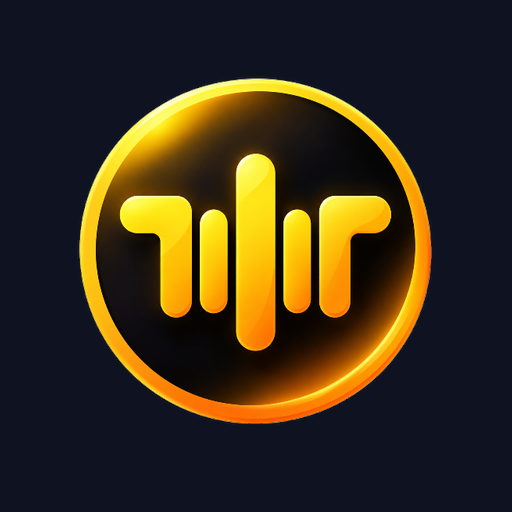
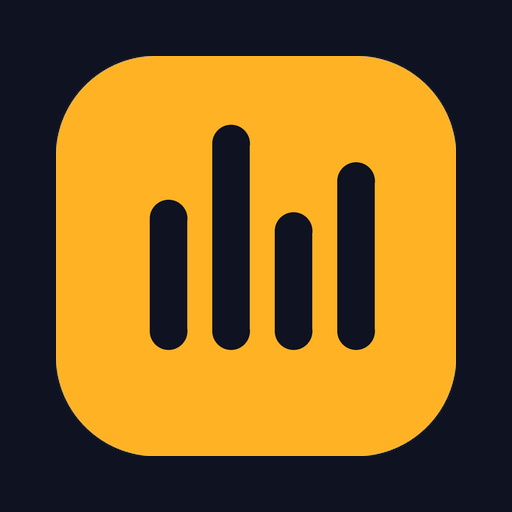
v0.1.0: robust AngularJS form validation, Terms of Use modal, and unified branding

diff --git a/frontend/public/index.html b/frontend/public/index.html
@@ -4,9 +4,9 @@
   <meta charset="utf-8">
   <meta name="viewport" content="width=device-width, initial-scale=1, viewport-fit=cover">
   <title ng-bind="title">TopTunes</title>
-  <link rel="icon" type="image/svg+xml" href="favicon.svg">
+  <link rel="icon" type="image/x-icon" href="favicon.ico">
   <link rel="icon" type="image/png" sizes="96x96" href="favicon-96x96.png">
-  <link rel="icon" href="favicon.ico">
+  <link rel="icon" type="image/svg+xml" href="favicon.svg">
   <link rel="apple-touch-icon" sizes="180x180" href="apple-touch-icon.png">
   <link rel="manifest" href="site.webmanifest">
   <meta name="theme-color" content="#ffb224">
@@ -18,6 +18,10 @@
 
 <!-- Icon sprite -->
 <svg width="0" height="0" style="position:absolute" aria-hidden="true">
+  <symbol id="i-logo" viewBox="0 0 32 32">
+    <rect width="32" height="32" rx="8" fill="#ffb224"/>
+    <path d="M9 22V10m5 12V6m5 16V13m5 9V9" stroke="#0f1220" stroke-width="3" stroke-linecap="round" fill="none"/>
+  </symbol>
   <symbol id="i-play" viewBox="0 0 24 24"><path d="M7 4.5v15l13-7.5z"/></symbol>
   <symbol id="i-pause" viewBox="0 0 24 24"><path d="M7 5h3.5v14H7zM13.5 5H17v14h-3.5z"/></symbol>
   <symbol id="i-next" viewBox="0 0 24 24"><path d="M6 5l10 7-10 7zM18 5v14"/></symbol>
@@ -48,7 +52,7 @@
 <div class="loadbar" ng-class="{on: app.loading}" role="progressbar" aria-label="Loading content" ng-attr-aria-valuenow="{{app.loading ? 100 : 0}}"></div>
 
 <header class="topbar">
-  <a class="brand" href="#/home"><svg class="mark" viewBox="0 0 32 32" aria-hidden="true"><rect width="32" height="32" rx="8"/><path d="M9 22V10m5 12V6m5 16V13m5 9V9"/></svg>TopTunes</a>
+  <a class="brand" href="#/home"><svg class="mark" aria-hidden="true"><use href="#i-logo"/></svg>TopTunes</a>
   <a class="btn small" href="#/login" ng-if="!app.session.user">Log in</a>
   <a class="avatar" href="#/profile" ng-if="app.session.user" aria-label="Your profile">{{app.session.user.name | initials}}</a>
 </header>
@@ -56,7 +60,7 @@
 <div class="shell">
   <aside class="side" role="navigation" aria-label="Sidebar navigation">
     <a class="brand" href="#/home" aria-label="TopTunes Home">
-      <svg class="mark" viewBox="0 0 32 32" aria-hidden="true"><rect width="32" height="32" rx="8"/><path d="M9 22V10m5 12V6m5 16V13m5 9V9"/></svg>
+      <svg class="mark" aria-hidden="true"><use href="#i-logo"/></svg>
       <span>TopTunes</span>
     </a>
 
@@ -741,7 +745,7 @@
   <section class="page auth">
     <div class="auth-wrap">
       <a class="brand auth-brand" href="#/home" aria-label="TopTunes Home">
-        <svg class="mark" viewBox="0 0 32 32"><rect width="32" height="32" rx="8"/><path d="M10 21V11l13-2v10M10 17l13-2"/></svg>
+        <svg class="mark" aria-hidden="true"><use href="#i-logo"/></svg>
         <span>TopTunes</span>
       </a>
 
@@ -756,15 +760,15 @@
         <form name="f" novalidate ng-submit="vm.submit(f)">
           <div class="field">
             <label for="l-email">Email address</label>
-            <input id="l-email" type="email" inputmode="email" name="email" ng-model="vm.user.email" required autocomplete="email" aria-describedby="l-email-err" ng-disabled="vm.busy">
+            <input id="l-email" type="email" inputmode="email" name="email" ng-model="vm.user.email" required ng-pattern="vm.emailRule" autocomplete="email" aria-describedby="l-email-err" ng-disabled="vm.busy" placeholder="you@example.com">
             <p id="l-email-err" class="field-error" role="alert" ng-if="(f.email.$touched || f.$submitted) && f.email.$error.required">Enter your email address.</p>
-            <p id="l-email-err" class="field-error" role="alert" ng-if="(f.email.$touched || f.$submitted) && f.email.$error.email">That does not look like a valid email address.</p>
+            <p id="l-email-err" class="field-error" role="alert" ng-if="(f.email.$touched || f.$submitted) && (f.email.$error.email || f.email.$error.pattern) && !f.email.$error.required">Enter a valid email address.</p>
           </div>
 
           <div class="field">
             <label for="l-pass">Password</label>
             <div class="input-pass-wrap">
-              <input id="l-pass" type="{{showPass ? 'text' : 'password'}}" name="password" ng-model="vm.user.password" required autocomplete="current-password" aria-describedby="l-pass-err" ng-disabled="vm.busy">
+              <input id="l-pass" type="{{showPass ? 'text' : 'password'}}" name="password" ng-model="vm.user.password" required autocomplete="current-password" aria-describedby="l-pass-err" ng-disabled="vm.busy" placeholder="Enter password">
               <button type="button" class="pass-toggle-btn" ng-click="showPass = !showPass" aria-label="{{showPass ? 'Hide password' : 'Show password'}}">
                 <span ng-if="!showPass">Show</span>
                 <span ng-if="showPass">Hide</span>
@@ -773,7 +777,7 @@
             <p id="l-pass-err" class="field-error" role="alert" ng-if="(f.password.$touched || f.$submitted) && f.password.$error.required">Enter your password.</p>
           </div>
 
-          <button class="btn primary wide auth-submit" type="submit" ng-disabled="vm.busy">
+          <button class="btn primary wide auth-submit" type="submit" ng-disabled="vm.busy || f.$invalid">
             {{vm.busy ? 'Signing in...' : 'Sign in'}}
           </button>
         </form>
@@ -791,7 +795,7 @@
   <section class="page auth">
     <div class="auth-wrap">
       <a class="brand auth-brand" href="#/home" aria-label="TopTunes Home">
-        <svg class="mark" viewBox="0 0 32 32"><rect width="32" height="32" rx="8"/><path d="M10 21V11l13-2v10M10 17l13-2"/></svg>
+        <svg class="mark" aria-hidden="true"><use href="#i-logo"/></svg>
         <span>TopTunes</span>
       </a>
 
@@ -806,22 +810,23 @@
         <form name="f" novalidate ng-submit="vm.submit(f)">
           <div class="field">
             <label for="r-name">Full name</label>
-            <input id="r-name" name="name" ng-model="vm.user.name" required minlength="2" maxlength="30" autocomplete="name" aria-describedby="r-name-err" ng-disabled="vm.busy">
+            <input id="r-name" name="name" ng-model="vm.user.name" required minlength="2" maxlength="50" ng-pattern="vm.nameRule" autocomplete="name" aria-describedby="r-name-err" ng-disabled="vm.busy" placeholder="e.g. Alex Morgan">
             <p id="r-name-err" class="field-error" role="alert" ng-if="(f.name.$touched || f.$submitted) && f.name.$error.required">Enter your name.</p>
-            <p id="r-name-err" class="field-error" role="alert" ng-if="(f.name.$touched || f.$submitted) && f.name.$error.minlength">Use at least 2 characters.</p>
+            <p id="r-name-err" class="field-error" role="alert" ng-if="(f.name.$touched || f.$submitted) && f.name.$error.minlength && !f.name.$error.required">Use at least 2 characters.</p>
+            <p id="r-name-err" class="field-error" role="alert" ng-if="(f.name.$touched || f.$submitted) && f.name.$error.pattern && !f.name.$error.required && !f.name.$error.minlength">Enter a valid name.</p>
           </div>
 
           <div class="field">
             <label for="r-email">Email address</label>
-            <input id="r-email" type="email" inputmode="email" name="email" ng-model="vm.user.email" required autocomplete="email" aria-describedby="r-email-err" ng-disabled="vm.busy">
+            <input id="r-email" type="email" inputmode="email" name="email" ng-model="vm.user.email" required ng-pattern="vm.emailRule" autocomplete="email" aria-describedby="r-email-err" ng-disabled="vm.busy" placeholder="you@example.com">
             <p id="r-email-err" class="field-error" role="alert" ng-if="(f.email.$touched || f.$submitted) && f.email.$error.required">Enter your email address.</p>
-            <p id="r-email-err" class="field-error" role="alert" ng-if="(f.email.$touched || f.$submitted) && f.email.$error.email">That does not look like a valid email address.</p>
+            <p id="r-email-err" class="field-error" role="alert" ng-if="(f.email.$touched || f.$submitted) && (f.email.$error.email || f.email.$error.pattern) && !f.email.$error.required">Enter a valid email address.</p>
           </div>
 
           <div class="field">
             <label for="r-pass">Password</label>
             <div class="input-pass-wrap">
-              <input id="r-pass" type="{{showRegPass ? 'text' : 'password'}}" name="password" ng-model="vm.user.password" required minlength="8" ng-pattern="vm.passwordRule" autocomplete="new-password" aria-describedby="r-pass-err" ng-disabled="vm.busy">
+              <input id="r-pass" type="{{showRegPass ? 'text' : 'password'}}" name="password" ng-model="vm.user.password" required minlength="8" ng-pattern="vm.passwordRule" autocomplete="new-password" aria-describedby="r-pass-err" ng-disabled="vm.busy" placeholder="At least 8 characters">
               <button type="button" class="pass-toggle-btn" ng-click="showRegPass = !showRegPass" aria-label="{{showRegPass ? 'Hide password' : 'Show password'}}">
                 <span ng-if="!showRegPass">Show</span>
                 <span ng-if="showRegPass">Hide</span>
@@ -832,31 +837,65 @@
               <span class="meter-label">{{vm.strengthLabel()}}</span>
             </div>
             <p id="r-pass-err" class="field-error" role="alert" ng-if="(f.password.$touched || f.$submitted) && f.password.$error.required">Choose a password.</p>
-            <p id="r-pass-err" class="field-error" role="alert" ng-if="(f.password.$touched || f.$submitted) && f.password.$error.minlength">Use at least 8 characters.</p>
-            <p id="r-pass-err" class="field-error" role="alert" ng-if="(f.password.$touched || f.$submitted) && f.password.$error.pattern && !f.password.$error.minlength">Include at least one letter and one number.</p>
+            <p id="r-pass-err" class="field-error" role="alert" ng-if="(f.password.$touched || f.$submitted) && f.password.$error.minlength && !f.password.$error.required">Use at least 8 characters.</p>
+            <p id="r-pass-err" class="field-error" role="alert" ng-if="(f.password.$touched || f.$submitted) && f.password.$error.pattern && !f.password.$error.minlength && !f.password.$error.required">Include at least one letter and one number.</p>
           </div>
 
           <div class="field">
             <label for="r-confirm">Confirm password</label>
             <div class="input-pass-wrap">
-              <input id="r-confirm" type="{{showRegPass ? 'text' : 'password'}}" name="confirm" ng-model="vm.user.confirm" required tt-match="vm.user.password" autocomplete="new-password" aria-describedby="r-confirm-err" ng-disabled="vm.busy">
+              <input id="r-confirm" type="{{showRegPass ? 'text' : 'password'}}" name="confirm" ng-model="vm.user.confirm" required tt-match="vm.user.password" autocomplete="new-password" aria-describedby="r-confirm-err" ng-disabled="vm.busy" placeholder="Re-enter password">
             </div>
             <p id="r-confirm-err" class="field-error" role="alert" ng-if="(f.confirm.$touched || f.$submitted) && f.confirm.$error.required">Repeat your password.</p>
             <p id="r-confirm-err" class="field-error" role="alert" ng-if="(f.confirm.$touched || f.$submitted) && f.confirm.$error.match && !f.confirm.$error.required">The passwords do not match.</p>
           </div>
 
           <div class="field terms-field">
-            <label class="check"><input type="checkbox" name="terms" ng-model="vm.user.terms" required aria-describedby="terms-err"> I accept the TopTunes terms of use</label>
-            <p id="terms-err" class="field-error" role="alert" ng-if="f.$submitted && f.terms.$error.required">Accept the terms to continue.</p>
+            <label class="check">
+              <input type="checkbox" name="terms" ng-model="vm.user.terms" required aria-describedby="terms-err" ng-disabled="vm.busy">
+              <span>I accept the TopTunes <a href="" class="terms-link" ng-click="vm.openTerms($event)">terms of use</a></span>
+            </label>
+            <p id="terms-err" class="field-error" role="alert" ng-if="(f.terms.$touched || f.$submitted) && f.terms.$error.required">Accept the terms of use to continue.</p>
           </div>
 
-          <button class="btn primary wide auth-submit" type="submit" ng-disabled="vm.busy">
+          <button class="btn primary wide auth-submit" type="submit" ng-disabled="vm.busy || f.$invalid">
             {{vm.busy ? 'Creating account...' : 'Create account'}}
           </button>
         </form>
 
         <div class="auth-footer">
           <p class="hint">Already registered? <a href="#/login">Log in</a>.</p>
+        </div>
+      </div>
+    </div>
+
+    <!-- Terms of Use Modal -->
+    <div class="modal-backdrop" ng-if="vm.showTerms" ng-click="vm.closeTerms()" style="position: fixed; inset: 0; background: rgba(0,0,0,0.78); display: flex; align-items: center; justify-content: center; z-index: 1000; padding: 20px; backdrop-filter: blur(4px);">
+      <div class="card terms-modal" ng-click="$event.stopPropagation()" style="background: var(--surface-1); border-radius: var(--r-xl); padding: 28px; width: 100%; max-width: 520px; max-height: 85vh; overflow-y: auto; border: 1px solid var(--border); box-shadow: var(--shadow-3);">
+        <div style="display: flex; justify-content: space-between; align-items: center; margin-bottom: 16px; border-bottom: 1px solid var(--border-subtle); padding-bottom: 12px;">
+          <h2 style="font-size: 1.25rem; font-weight: 800; color: var(--text); margin: 0;">TopTunes Terms of Use</h2>
+          <button class="icon-btn" ng-click="vm.closeTerms()" aria-label="Close terms modal"><svg class="i"><use href="#i-x"/></svg></button>
+        </div>
+        <div class="terms-content" style="color: var(--text-2); font-size: 0.92rem; line-height: 1.6; display: grid; gap: 14px;">
+          <div>
+            <strong style="color: var(--text); display: block; font-size: 0.95rem; margin-bottom: 4px;">1. Service Overview</strong>
+            <p>TopTunes is a music streaming web platform designed for personal listening, catalog discovery, and playlist curation.</p>
+          </div>
+          <div>
+            <strong style="color: var(--text); display: block; font-size: 0.95rem; margin-bottom: 4px;">2. User Accounts & Security</strong>
+            <p>You agree to provide accurate registration details and maintain the security of your account credentials. You are responsible for all activities that occur under your account.</p>
+          </div>
+          <div>
+            <strong style="color: var(--text); display: block; font-size: 0.95rem; margin-bottom: 4px;">3. Playlists & Library Content</strong>
+            <p>Your liked tracks, listening history, and custom playlists are saved to your personal profile. Do not upload copyright-infringing audio files or offensive content.</p>
+          </div>
+          <div>
+            <strong style="color: var(--text); display: block; font-size: 0.95rem; margin-bottom: 4px;">4. Privacy & Data Storage</strong>
+            <p>Your session and preferences are stored securely. We do not sell your personal data or track you across third-party websites.</p>
+          </div>
+        </div>
+        <div style="margin-top: 24px; text-align: right; border-top: 1px solid var(--border-subtle); padding-top: 16px;">
+          <button class="btn primary small" type="button" ng-click="vm.closeTerms()">I Understand</button>
         </div>
       </div>
     </div>

diff --git a/frontend/public/js/app.js b/frontend/public/js/app.js
@@ -986,7 +986,11 @@
     return {
       require: 'ngModel',
       link: function (scope, el, attrs, ctrl) {
-        ctrl.$validators.match = function (v) { return v === scope.$eval(attrs.ttMatch); };
+        ctrl.$validators.match = function (v) {
+          var target = scope.$eval(attrs.ttMatch);
+          if (v === undefined || v === null || v === '') return true;
+          return v === target;
+        };
         scope.$watch(attrs.ttMatch, function () { ctrl.$validate(); });
       }
     };
@@ -1209,11 +1213,23 @@
 
   app.controller('LoginCtrl', ['$location', 'Session', 'Toast', function ($loc, S, Toast) {
     var vm = this;
-    vm.user = { email: '', password: '' }; vm.busy = false; vm.error = '';
+    vm.user = { email: '', password: '' };
+    vm.busy = false;
+    vm.error = '';
+    vm.emailRule = /^[a-zA-Z0-9.!#$%&'*+/=?^_`{|}~-]+@[a-zA-Z0-9](?:[a-zA-Z0-9-]{0,61}[a-zA-Z0-9])?(?:\.[a-zA-Z0-9](?:[a-zA-Z0-9-]{0,61}[a-zA-Z0-9])?)*\.(com|net|org|edu|gov|mil|biz|info|io|ai|co|me|dev|app|xyz|tech|site|online|top|music|audio|media|live|cloud|tv|in|us|uk|ca|de|fr|jp|au|it|es|nl|eu|ch|se|no|fi|ru|br|za|kr|mx|nz|sg|is|agency|store|space|digital|global)$/i;
     vm.demo = function () { vm.user.email = 'demo@toptunes.dev'; vm.user.password = 'demo1234'; vm.error = ''; };
     vm.submit = function (form) {
       vm.error = '';
-      if (form.$invalid) { return; }
+      if (!form || form.$invalid) {
+        if (form) {
+          angular.forEach(form, function (field) {
+            if (field && typeof field.$setTouched === 'function') {
+              field.$setTouched();
+            }
+          });
+        }
+        return;
+      }
       vm.busy = true;
       S.login(vm.user).then(function (u) {
         Toast.success('Welcome back, ' + (u.name ? u.name.split(' ')[0] : 'Listener') + '.');
@@ -1225,23 +1241,63 @@
 
   app.controller('RegisterCtrl', ['$location', 'Session', 'Toast', function ($loc, S, Toast) {
     var vm = this;
-    vm.user = { name: '', email: '', password: '', confirm: '', terms: false }; vm.busy = false; vm.error = '';
+    vm.user = { name: '', email: '', password: '', confirm: '', terms: false };
+    vm.busy = false;
+    vm.error = '';
+    vm.showTerms = false;
+
+    // Full name: 2-50 characters, reject numbers-only/symbol-only input, allow normal spaces and common name characters such as apostrophe/hyphen
+    vm.nameRule = /^(?=.*[a-zA-Z\u00C0-\u024F\u1E00-\u1EFF])[a-zA-Z\u00C0-\u024F\u1E00-\u1EFF\s'’.\-]+$/;
+
+    // Email: Genuine email format rejecting malformed domains such as gmail.comd, missing @, spaces, etc.
+    vm.emailRule = /^[a-zA-Z0-9.!#$%&'*+/=?^_`{|}~-]+@[a-zA-Z0-9](?:[a-zA-Z0-9-]{0,61}[a-zA-Z0-9])?(?:\.[a-zA-Z0-9](?:[a-zA-Z0-9-]{0,61}[a-zA-Z0-9])?)*\.(com|net|org|edu|gov|mil|biz|info|io|ai|co|me|dev|app|xyz|tech|site|online|top|music|audio|media|live|cloud|tv|in|us|uk|ca|de|fr|jp|au|it|es|nl|eu|ch|se|no|fi|ru|br|za|kr|mx|nz|sg|is|agency|store|space|digital|global)$/i;
+
+    // Password: minimum 8 characters, at least one letter and one number
     vm.passwordRule = /^(?=.*[A-Za-z])(?=.*\d).+$/;
+
     vm.strength = function () {
       var p = vm.user.password || '', s = 0;
-      if (p.length >= 8) { s++; } if (/[a-z]/.test(p) && /[A-Z]/.test(p)) { s++; } if (/\d/.test(p)) { s++; } if (/[^A-Za-z0-9]/.test(p)) { s++; }
+      if (p.length >= 8) { s++; }
+      if (/[a-z]/.test(p) && /[A-Z]/.test(p)) { s++; }
+      if (/\d/.test(p)) { s++; }
+      if (/[^A-Za-z0-9]/.test(p)) { s++; }
       return p ? s : 0;
     };
-    vm.strengthLabel = function () { return ['', 'Weak', 'Fair', 'Good', 'Strong'][vm.strength()]; };
+
+    vm.strengthLabel = function () {
+      return ['', 'Weak', 'Fair', 'Good', 'Strong'][vm.strength()];
+    };
+
+    vm.openTerms = function ($event) {
+      if ($event) { $event.preventDefault(); }
+      vm.showTerms = true;
+    };
+
+    vm.closeTerms = function () {
+      vm.showTerms = false;
+    };
+
     vm.submit = function (form) {
       vm.error = '';
-      if (form.$invalid) { return; }
+      if (!form || form.$invalid) {
+        if (form) {
+          angular.forEach(form, function (field) {
+            if (field && typeof field.$setTouched === 'function') {
+              field.$setTouched();
+            }
+          });
+        }
+        return;
+      }
       vm.busy = true;
       S.register(vm.user).then(function (u) {
         Toast.success('Account created. Welcome to TopTunes, ' + (u.name ? u.name.split(' ')[0] : 'Listener') + '!');
         $loc.url('/home');
-      }).catch(function (e) { vm.error = e.message || 'Could not create your account. Try again.'; })
-        ['finally'](function () { vm.busy = false; });
+      }).catch(function (e) {
+        vm.error = e.message || 'Could not create your account. Try again.';
+      })['finally'](function () {
+        vm.busy = false;
+      });
     };
   }]);
 

diff --git a/frontend/public/css/styles.css b/frontend/public/css/styles.css
@@ -2009,15 +2009,42 @@ tt-song-row:nth-last-child(-n+3) .menu,
   background: var(--surface-hover);
 }
 
-input.ng-invalid.ng-touched, form.ng-submitted input.ng-invalid:not([type=checkbox]) {
-  border-color: var(--danger);
+input.ng-invalid.ng-touched:not([type=checkbox]):not([type=range]),
+form.ng-submitted input.ng-invalid:not([type=checkbox]):not([type=range]) {
+  border-color: var(--danger) !important;
+  box-shadow: 0 0 0 3px rgba(248, 113, 113, 0.18) !important;
+}
+
+input.ng-valid.ng-touched.ng-dirty:not([type=checkbox]):not([type=range]) {
+  border-color: rgba(52, 211, 153, 0.5);
 }
 
 .field-error {
   color: var(--danger);
   font-size: 0.84rem;
-  margin-top: 3px;
+  margin-top: 4px;
   font-weight: 500;
+  display: flex;
+  align-items: center;
+  gap: 4px;
+  animation: fieldErrFade 0.18s ease-in-out;
+}
+
+@keyframes fieldErrFade {
+  from { opacity: 0; transform: translateY(-3px); }
+  to { opacity: 1; transform: translateY(0); }
+}
+
+.terms-link {
+  color: var(--accent);
+  text-decoration: underline;
+  text-underline-offset: 3px;
+  font-weight: 600;
+  cursor: pointer;
+}
+
+.terms-link:hover {
+  color: var(--accent-hover);
 }
 
 .alert {

diff --git a/backend/routes/auth.routes.js b/backend/routes/auth.routes.js
@@ -11,7 +11,9 @@ const registerValidation = [
   body('name')
     .trim()
     .notEmpty().withMessage('Name is required')
-    .isLength({ min: 2, max: 50 }).withMessage('Name must be between 2 and 50 characters'),
+    .isLength({ min: 2, max: 50 }).withMessage('Name must be between 2 and 50 characters')
+    .matches(/^(?=.*[a-zA-Z\u00C0-\u024F\u1E00-\u1EFF])[a-zA-Z\u00C0-\u024F\u1E00-\u1EFF\s'’.\-]+$/)
+    .withMessage('Please enter a valid name'),
   body('email')
     .trim()
     .notEmpty().withMessage('Email is required')
@@ -19,7 +21,8 @@ const registerValidation = [
     .normalizeEmail(),
   body('password')
     .notEmpty().withMessage('Password is required')
-    .isLength({ min: 6 }).withMessage('Password must be at least 6 characters long'),
+    .isLength({ min: 8 }).withMessage('Password must be at least 8 characters long')
+    .matches(/^(?=.*[A-Za-z])(?=.*\d)/).withMessage('Password must contain at least one letter and one number'),
   validate
 ];
 
